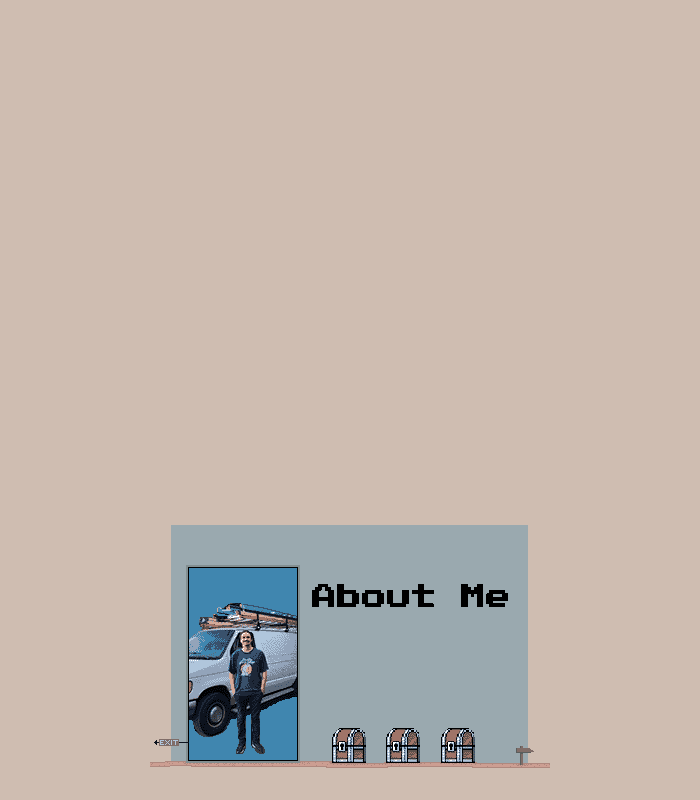
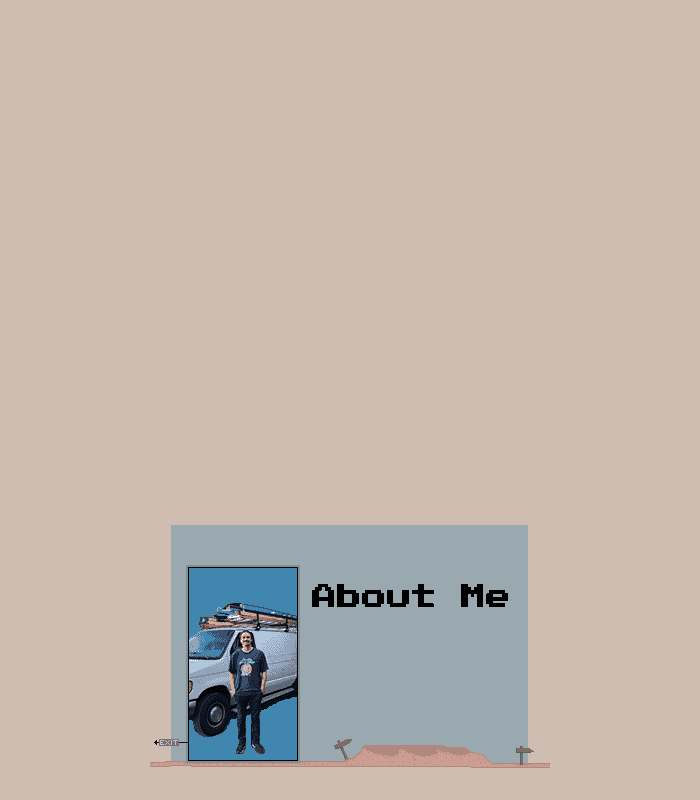
reorganizing commit

Changed region(s): [[0.45, 0.9062, 0.69, 0.9688]]

diff --git a/js/OverworldMap.js b/js/OverworldMap.js
@@ -122,7 +122,7 @@ class OverworldMap {
 
 window.OverworldMaps = {
   MainMap: {
-    lowerSrc: '/img/maps/pixle-portfolio.png',
+    lowerSrc: '/img/maps/pixle-portfolio-test.png',
     upperSrc: '/img/maps/pixle-portfolio-upper.png',
     gameObjects: {
       hero: new Person({
@@ -133,53 +133,79 @@ window.OverworldMaps = {
       wizard: new Person({
         x: utils.widthGrid(21),
         y: utils.widthGrid(40),
-        src: '/img/characters/people/wizard.png'
-      })
+        src: '/img/characters/people/wizard.png',
+        talking: [
+          {
+            events: [
+              { type: 'textMessage', text:'Welcome traveler! Ye old game shack is to the left. The About Me page is to the right.', faceHero: 'wizard' }
+            ]
+          }
+        ]
+      }),
+      // andrew: new Person({
+      //   x: utils.widthGrid(14),
+      //   y: utils.widthGrid(15),
+      //   src: '/img/characters/hi-andrew.png',
+      //   frameWidth: 120,
+      //   frameHeight: 120,
+      //   behaviorLoop: [
+      //     { type: 'walk', direction: 'up'},
+      //     { type: 'walk', direction: 'up'},
+      //     { type: 'walk', direction: 'up'},
+      //     { type: 'walk', direction: 'up'},
+      //     { type: 'walk', direction: 'up'},
+      //     { type: 'walk', direction: 'up'},
+      //     { type: 'walk', direction: 'up'},
+      //     { type: 'walk', direction: 'up'},
+      //     { type: 'walk', direction: 'up'},
+      //     { type: 'stand', direction: 'down', time: 5000000},
+      //   ],
+      // })
     },
     walls: {
       [utils.asGridCoord(10,7)]: true,
     },
     cutsceneSpaces: {
-      [utils.asGridCoord(23,40)]: [
-        {
-          requiresEnter: true,
-          events: [
-            { who: 'wizard', type: 'stand', direction: 'right', time: 500},
-            { type: 'textMessage', text:'Welcome traveler! Ye old game shack is to the left. The About Me page is to the right.' },
-            { who: 'hero', type: 'walk', direction: 'right'},
-          ]
-        }
-      ],
-      [utils.asGridCoord(22,40)]: [
-        {
-          requiresEnter: true,
-          events: [
-            { who: 'wizard', type: 'stand', direction: 'left', time: 500},
-            { type: 'textMessage', text:'Welcome traveler! Ye old game shack is to the left. The About Me page is to the right.' },
-            { who: 'hero', type: 'walk', direction: 'right'},
-          ]
-        }
-      ],
-      [utils.asGridCoord(21,40)]: [
-        {
-          requiresEnter: true,
-          events: [
-            { who: 'wizard', type: 'stand', direction: 'left', time: 500},
-            { type: 'textMessage', text:'Welcome traveler! Ye old game shack is to the left. The About Me page is to the right.' },
-            { who: 'hero', type: 'walk', direction: 'right'},
-          ]
-        }
-      ],
-      [utils.asGridCoord(20,40)]: [
-        {
-          requiresEnter: true,
-          events: [
-            { who: 'wizard', type: 'stand', direction: 'left', time: 500},
-            { type: 'textMessage', text:'Welcome traveler! Ye old game shack is to the left. The About Me page is to the right.' },
-            { who: 'hero', type: 'walk', direction: 'right'},
-          ]
-        }
-      ],
+      // [utils.asGridCoord(23,40)]: [
+      //   {
+      //     requiresEnter: true,
+      //     events: [
+      //       { who: 'wizard', type: 'stand', direction: 'right', time: 500},
+      //       { type: 'textMessage', text:'Welcome traveler! Ye old game shack is to the left. The About Me page is to the right.' },
+      //       { who: 'hero', type: 'walk', direction: 'right'},
+      //     ]
+      //   }
+      // ],
+      // [utils.asGridCoord(22,40)]: [
+      //   {
+      //     requiresEnter: true,
+      //     events: [
+      //       { who: 'wizard', type: 'stand', direction: 'left', time: 500},
+      //       { type: 'textMessage', text:'Welcome traveler! Ye old game shack is to the left. The About Me page is to the right.' },
+      //       { who: 'hero', type: 'walk', direction: 'right'},
+      //     ]
+      //   }
+      // ],
+      // [utils.asGridCoord(21,40)]: [
+      //   {
+      //     requiresEnter: true,
+      //     events: [
+      //       { who: 'wizard', type: 'stand', direction: 'left', time: 500},
+      //       { type: 'textMessage', text:'Welcome traveler! Ye old game shack is to the left. The About Me page is to the right.' },
+      //       { who: 'hero', type: 'walk', direction: 'right'},
+      //     ]
+      //   }
+      // ],
+      // [utils.asGridCoord(20,40)]: [
+      //   {
+      //     requiresEnter: true,
+      //     events: [
+      //       { who: 'wizard', type: 'stand', direction: 'left', time: 500},
+      //       { type: 'textMessage', text:'Welcome traveler! Ye old game shack is to the left. The About Me page is to the right.' },
+      //       { who: 'hero', type: 'walk', direction: 'right'},
+      //     ]
+      //   }
+      // ],
       [utils.asGridCoord(34,40)]: [
         {
           events: [
@@ -197,7 +223,7 @@ window.OverworldMaps = {
     }
   },
   AboutMeMap: {
-    lowerSrc: '/img/maps/pixle-portfolio-page-2.png',
+    lowerSrc: '/img/maps/pixle-portfolio-page-2-test.png',
     upperSrc: '',
     gameObjects: {
       hero: new Person({
@@ -211,18 +237,18 @@ window.OverworldMaps = {
         src: '/img/characters/people/wizard.png'
       }),
       chest: new Person({
-        x: utils.widthGrid(21),
-        y: utils.widthGrid(40.5),
+        x: utils.widthGrid(23),
+        y: utils.widthGrid(39.5),
         src: '/img/characters/chest.png'
       }),
       chest2: new Person({
         x: utils.widthGrid(25),
-        y: utils.widthGrid(40.5),
+        y: utils.widthGrid(39.5),
         src: '/img/characters/chest.png'
       }),
       chest3: new Person({
-        x: utils.widthGrid(29),
-        y: utils.widthGrid(40.5),
+        x: utils.widthGrid(27),
+        y: utils.widthGrid(39.5),
         src: '/img/characters/chest.png'
       }),
     },
@@ -230,9 +256,8 @@ window.OverworldMaps = {
       [utils.asGridCoord(10,7)]: true,
     },
     cutsceneSpaces: {
-      [utils.asGridCoord(21,41)]: [
+      [utils.asGridCoord(23,40)]: [
         {
-          requiresEnter: true,
           events: [
             { who: 'chest', type: 'stand', direction: 'right', time: 500},
             { type: 'textMessage', text:'hey, watch out' },
@@ -240,9 +265,8 @@ window.OverworldMaps = {
           ]
         }
       ],
-      [utils.asGridCoord(25,41)]: [
+      [utils.asGridCoord(25,40)]: [
         {
-          requiresEnter: true,
           events: [
             { who: 'chest2', type: 'stand', direction: 'right', time: 500},
             { type: 'textMessage', text:'hey, watch out' },
@@ -250,9 +274,8 @@ window.OverworldMaps = {
           ]
         }
       ],
-      [utils.asGridCoord(29,41)]: [
+      [utils.asGridCoord(27,40)]: [
         {
-          requiresEnter: true,
           events: [
             { who: 'chest3', type: 'stand', direction: 'right', time: 500},
             { type: 'textMessage', text:'hey, watch out' },

diff --git a/js/Sprite.js b/js/Sprite.js
@@ -26,6 +26,10 @@ class Sprite {
 
     //Reference game object
     this.gameObject = config.gameObject
+
+    //Configure frame dimensions
+    this.frameWidth = config.frameWidth || 32
+    this.frameHeight = config.frameHeight || 32 
   }
 
   get frame() {
@@ -63,11 +67,12 @@ class Sprite {
     const [frameX, frameY] = this.frame
 
     this.isLoaded && ctx.drawImage(this.image,
-      frameX * 32, frameY * 32,
-      32,32,
-      x,y,
-      32,32
+      frameX * this.frameWidth, frameY * this.frameHeight, // source x, y
+      this.frameWidth, this.frameHeight, // source width, height
+      x, y, // destination x, y
+      this.frameWidth, this.frameHeight // destination width, height
     )
     this.updateAnimationProgress()
   }
+
 }

diff --git a/js/overworld.js b/js/overworld.js
@@ -1,3 +1,8 @@
+
+
+
+
+
 class Overworld {
   constructor(config) {
     this.element = config.element
